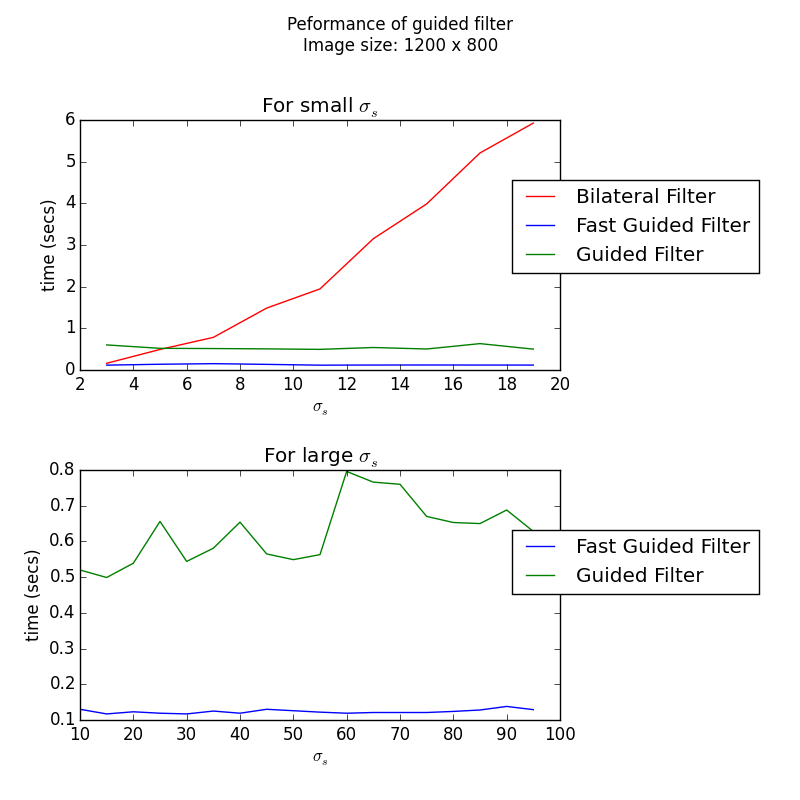
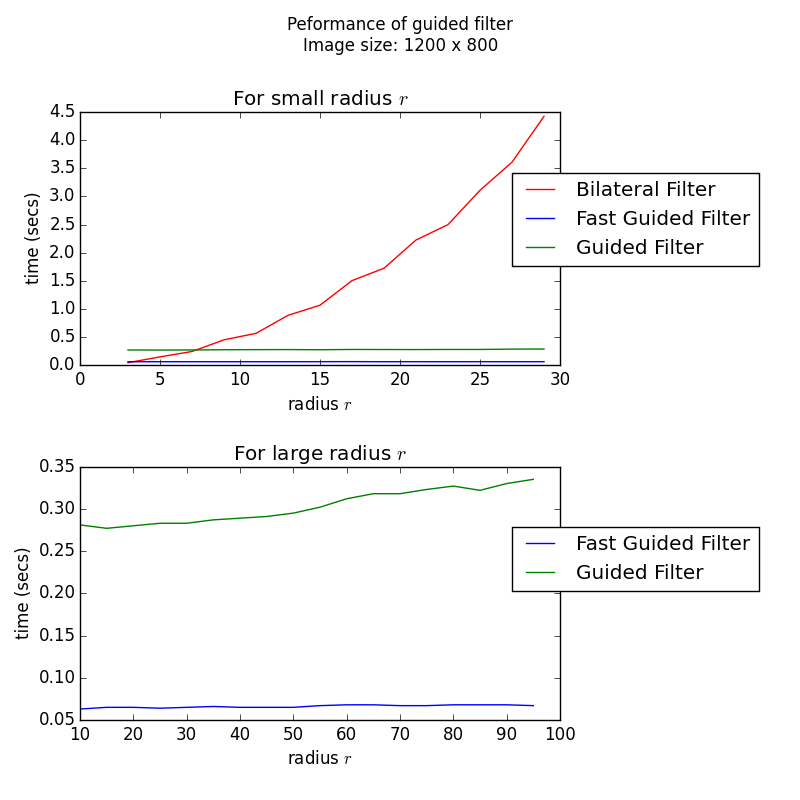
Release version 1.0.

diff --git a/guided_filter/core/filters.py b/guided_filter/core/filters.py
@@ -47,10 +47,10 @@ def _upSample(I, scale=2, shape=None):
 class FastGuidedFilter:
     ## Constructor.
     #  @param I Input guidance image. Color or gray.
-    #  @param sigma_space Filter sigma in the coordinate space.
-    #  @param sigma_range Filter sigma in the color space.
+    #  @param radius Radius of Guided Filter.
+    #  @param epsilon Regularization term of Guided Filter.
     #  @param scale Down sampled scale.
-    def __init__(self, I, sigma_space=5, sigma_range=0.4, scale=4):
+    def __init__(self, I, radius=5, epsilon=0.4, scale=4):
         I_32F = to32F(I)
         self._I = I_32F
         h, w = I.shape[:2]
@@ -58,12 +58,12 @@ class FastGuidedFilter:
         I_sub = _downSample(I_32F, scale)
 
         self._I_sub = I_sub
-        sigma_space = int(sigma_space / scale)
+        radius = int(radius / scale)
 
         if _isGray(I):
-            self._guided_filter = GuidedFilterGray(I_sub, sigma_space, sigma_range)
+            self._guided_filter = GuidedFilterGray(I_sub, radius, epsilon)
         else:
-            self._guided_filter = GuidedFilterColor(I_sub, sigma_space, sigma_range)
+            self._guided_filter = GuidedFilterColor(I_sub, radius, epsilon)
 
     ## Apply filter for the input image.
     #  @param p Input image for the filtering.
@@ -93,15 +93,15 @@ class FastGuidedFilter:
 class GuidedFilter:
     ## Constructor.
     #  @param I Input guidance image. Color or gray.
-    #  @param sigma_space Filter sigma in the coordinate space.
-    #  @param sigma_range Filter sigma in the color space.
-    def __init__(self, I, sigma_space=5, sigma_range=0.4):
+    #  @param radius Radius of Guided Filter.
+    #  @param epsilon Regularization term of Guided Filter.
+    def __init__(self, I, radius=5, epsilon=0.4):
         I_32F = to32F(I)
 
         if _isGray(I):
-            self._guided_filter = GuidedFilterGray(I_32F, sigma_space, sigma_range)
+            self._guided_filter = GuidedFilterGray(I_32F, radius, epsilon)
         else:
-            self._guided_filter = GuidedFilterColor(I_32F, sigma_space, sigma_range)
+            self._guided_filter = GuidedFilterColor(I_32F, radius, epsilon)
 
     ## Apply filter for the input image.
     #  @param p Input image for the filtering.
@@ -140,11 +140,11 @@ class GuidedFilterCommon:
 ## Guided filter for gray guidance image.
 class GuidedFilterGray:
     #  @param I Input gray guidance image.
-    #  @param sigma_space Filter sigma in the coordinate space.
-    #  @param sigma_range Filter sigma in the color space.
-    def __init__(self, I, sigma_space=5, sigma_range=0.4):
-        self._sigma_space = 2 * sigma_space + 1
-        self._sigma_range = sigma_range
+    #  @param radius Radius of Guided Filter.
+    #  @param epsilon Regularization term of Guided Filter.
+    def __init__(self, I, radius=5, epsilon=0.4):
+        self._radius = 2 * radius + 1
+        self._epsilon = epsilon
         self._I = to32F(I)
         self._initFilter()
         self._filter_common = GuidedFilterCommon(self)
@@ -156,16 +156,16 @@ class GuidedFilterGray:
 
     def _initFilter(self):
         I = self._I
-        r = self._sigma_space
+        r = self._radius
         self._I_mean = cv2.blur(I, (r, r))
         I_mean_sq = cv2.blur(I ** 2, (r, r))
         self._I_var = I_mean_sq - self._I_mean ** 2
 
     def _computeCoefficients(self, p):
-        r = self._sigma_space
+        r = self._radius
         p_mean = cv2.blur(p, (r, r))
         p_cov = p_mean - self._I_mean * p_mean
-        a = p_cov / (self._I_var + self._sigma_range)
+        a = p_cov / (self._I_var + self._epsilon)
         b = p_mean - a * self._I_mean
         a_mean = cv2.blur(a, (r, r))
         b_mean = cv2.blur(b, (r, r))
@@ -179,11 +179,11 @@ class GuidedFilterGray:
 ## Guided filter for color guidance image.
 class GuidedFilterColor:
     #  @param I Input color guidance image.
-    #  @param sigma_space Filter sigma in the coordinate space.
-    #  @param sigma_range Filter sigma in the color space.
-    def __init__(self, I, sigma_space=5, sigma_range=0.2):
-        self._sigma_space = 2 * sigma_space + 1
-        self._sigma_range = sigma_range
+   #  @param radius Radius of Guided Filter.
+    #  @param epsilon Regularization term of Guided Filter.
+    def __init__(self, I, radius=5, epsilon=0.2):
+        self._radius = 2 * radius + 1
+        self._epsilon = epsilon
         self._I = to32F(I)
         self._initFilter()
         self._filter_common = GuidedFilterCommon(self)
@@ -195,8 +195,8 @@ class GuidedFilterColor:
 
     def _initFilter(self):
         I = self._I
-        r = self._sigma_space
-        eps = self._sigma_range
+        r = self._radius
+        eps = self._epsilon
 
         Ir, Ig, Ib = I[:, :, 0], I[:, :, 1], I[:, :, 2]
 
@@ -234,7 +234,7 @@ class GuidedFilterColor:
         self._Ibb_inv = Ibb_inv
 
     def _computeCoefficients(self, p):
-        r = self._sigma_space
+        r = self._radius
         I = self._I
         Ir, Ig, Ib = I[:, :, 0], I[:, :, 1], I[:, :, 2]
 

diff --git a/guided_filter/results/performance.py b/guided_filter/results/performance.py
@@ -23,12 +23,12 @@ from guided_filter.results.results import resultFile
 #
 #  Input I for the constructor will be discarded.
 class BilateralFilter:
-    def __init__(self, I, sigma_space=5, sigma_range=0.2):
-        self._sigma_range = sigma_range
-        self._sigma_space = sigma_space
+    def __init__(self, I, radius=5, epsilon=0.2):
+        self._epsilon = epsilon
+        self._radius = radius
 
     def filter(self, I):
-        return cv2.bilateralFilter(I, 0, self._sigma_range, self._sigma_space)
+        return cv2.bilateralFilter(I, 0, self._epsilon, self._radius)
 
 
 ## Peformance test for the input image and the target filter.
@@ -43,7 +43,7 @@ def performanceTestFilter(C_noise, filter):
 def generateFilterVariations(C_32F, filter_class, sigmas):
     filters = []
     for sigma in sigmas:
-        filters.append(filter_class(C_32F, sigma_space=sigma))
+        filters.append(filter_class(C_32F, radius=sigma))
     return filters
 
 
@@ -64,7 +64,7 @@ def performanceTestSigmas(C_32F, sigmas, filter_types, ax):
 
         ax.plot(sigmas, times, label=type_name, color=color)
 
-    ax.set_xlabel('$\sigma_s$')
+    ax.set_xlabel('radius $r$')
     ax.set_ylabel('time (secs)')
     ax.legend(bbox_to_anchor=(0.88, 0.8), loc=2)
 
@@ -78,7 +78,7 @@ def performanceTest(image_file):
     image_size_str = "Image size: %s x %s" %(w, h)
 
     fig, axes = plt.subplots(nrows=2, ncols=1, figsize=(8, 8))
-    fig.subplots_adjust(left=0.1, right=0.7, top=0.85, hspace=0.4)
+    fig.subplots_adjust(left=0.1, right=0.7, top=0.86, hspace=0.4)
 
     fig.suptitle("Peformance of guided filter\n%s" % image_size_str)
 
@@ -86,18 +86,17 @@ def performanceTest(image_file):
                     "Guided Filter": (GuidedFilter, "g"),
                     "Fast Guided Filter": (FastGuidedFilter, "b")}
 
-    sigmas = range(3, 21, 2)
-    axes[0].set_title('For small $\sigma_s$')
+    sigmas = range(3, 31, 2)
+    axes[0].set_title('For small radius $r$')
 
-    fig_title = "Peformance for small $\sigma_s$"
     performanceTestSigmas(C_32F, sigmas, filter_types, axes[0])
 
     sigmas = range(10, 100, 5)
-    result_name = "performance_large_sigma"
+
     filter_types = {"Guided Filter": (GuidedFilter, "g"),
                     "Fast Guided Filter": (FastGuidedFilter, "b")}
 
-    axes[1].set_title('For large $\sigma_s$')
+    axes[1].set_title('For large radius $r$')
     performanceTestSigmas(C_32F, sigmas, filter_types, axes[1])
 
     result_name = "performance"

diff --git a/guided_filter/results/smooth_noise.py b/guided_filter/results/smooth_noise.py
@@ -30,7 +30,10 @@ def runSmoothNoiseResult(image_file):
     fig_width = 10
     fig_height = int(2 * fig_width * aspect / 3) + 2
     fig = plt.figure(figsize=(fig_width, fig_height))
-    fig.subplots_adjust(left=0.05, bottom=0.05, right=0.95, top=0.95, wspace=0.02, hspace=0.15)
+    fig.subplots_adjust(left=0.05, bottom=0.05, right=0.95, top=0.82, wspace=0.02, hspace=0.3)
+    h, w = C_32F.shape[:2]
+    image_size_str = "Image size: %s x %s" %(w, h)
+    fig.suptitle("Filtering noise image\n%s" % image_size_str)
 
     plt.subplot(231)
     plt.title("Original")
@@ -51,12 +54,12 @@ def runSmoothNoiseResult(image_file):
 
     plot_id = 234
     for sigma in sigmas:
-        guided_filter = FastGuidedFilter(C_noise, sigma_space=sigma, sigma_range=0.02)
+        guided_filter = FastGuidedFilter(C_noise, radius=sigma, epsilon=0.02)
         C_smooth = guided_filter.filter(C_noise)
         C_smooth = np.clip(C_smooth, 0.0, 1.0)
 
         plt.subplot(plot_id)
-        plt.title("Filtered (sigma=%s)" %sigma)
+        plt.title("Filtered ($r$=%s)" %sigma)
         plt.imshow(C_smooth)
         plt.axis('off')
         plot_id +=1

diff --git a/README.md b/README.md
@@ -15,8 +15,8 @@ In this demo package, I also implemented **Fast Guided Filter** [He et al. 2015]
 1. Noise image from original image.
 2. Guided filter smooth the noise image like bilateral filter.
     * Guidance image: Noise image.
-    * Filter sigma in the color space: constant 0.05.
-    * Filter sigma in the coordinate space: [5, 10, 20]
+    * Epsilon (regularization term similar to the sigma in the color space): Constant 0.05.
+    * Radius (similar to the sigma in the coordinate space): [5, 10, 20]
 
 ![flower_1](guided_filter/results/flower_1.png)
 
